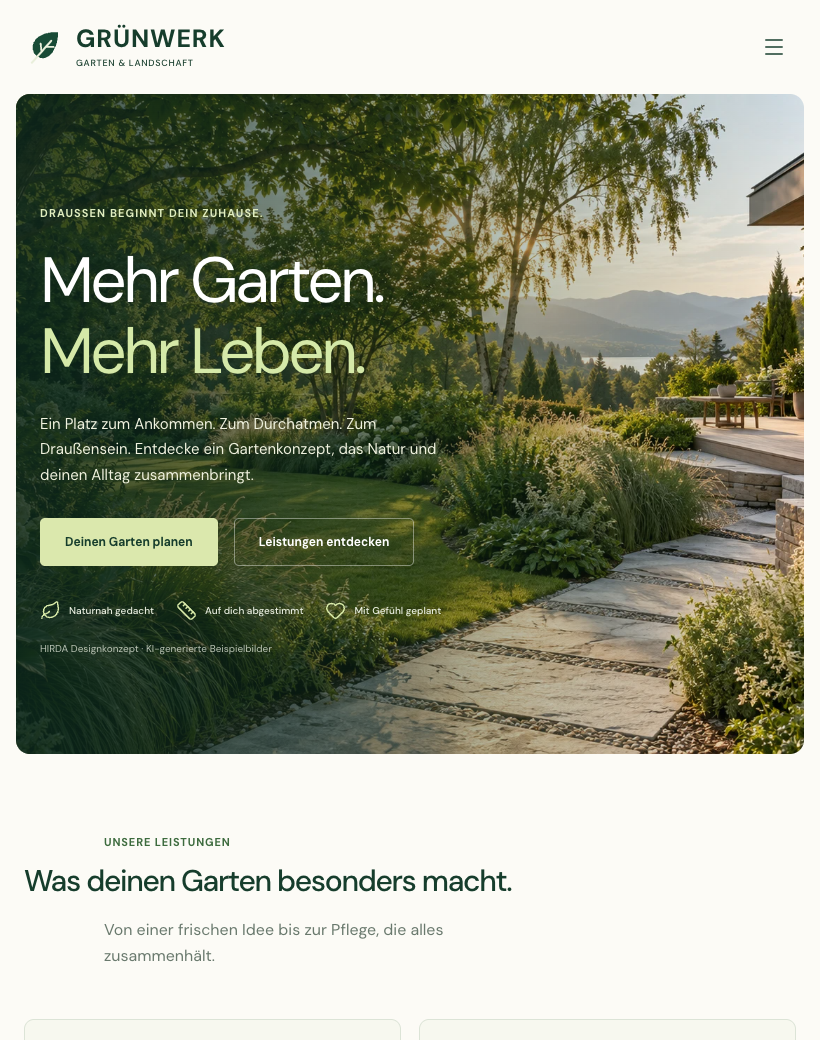
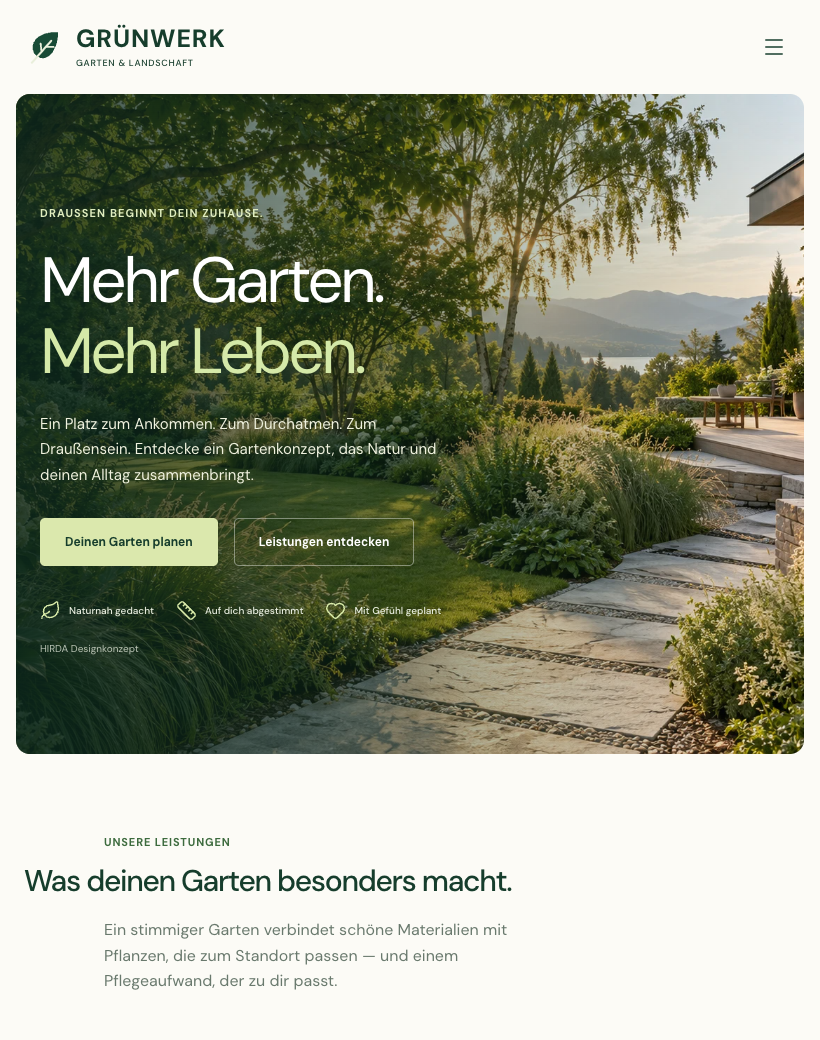
Expand Gruenwerk garden planning and service guidance

Changed region(s): [[0.122, 0.8923, 0.5793, 0.9538], [0.1829, 0.6154, 0.2439, 0.6462], [0.2744, 0.6154, 0.3049, 0.6462]]

diff --git a/apps/gardens/src/data/site.ts b/apps/gardens/src/data/site.ts
@@ -10,33 +10,33 @@ export const site = {
   ],
   "description": "Ein Platz zum Ankommen. Zum Durchatmen. Zum Draußensein. Entdecke ein Gartenkonzept, das Natur und deinen Alltag zusammenbringt.",
   "hero": "garden.webp",
-  "heroAlt": "KI-Visualisierung eines naturnahen Gartens mit Natursteinweg und Holzterrasse",
+  "heroAlt": "naturnahen Gartens mit Natursteinweg und Holzterrasse",
   "servicesTitle": "Was deinen Garten besonders macht.",
-  "servicesIntro": "Von einer frischen Idee bis zur Pflege, die alles zusammenhält.",
+  "servicesIntro": "Ein stimmiger Garten verbindet schöne Materialien mit Pflanzen, die zum Standort passen — und einem Pflegeaufwand, der zu dir passt.",
   "services": [
     {
       "icon": "sprout",
       "title": "Gartenplanung",
-      "text": "Aus deinen Wünschen wird ein stimmiges Konzept."
+      "text": "Ein Sitzplatz in der Abendsonne, Raum zum Spielen oder weniger Pflege: Nutzung, Boden und Licht geben der Planung ihre Richtung."
     },
     {
       "icon": "flower-2",
       "title": "Pflanzen & Beete",
-      "text": "Lebendige Strukturen für jede Jahreszeit."
+      "text": "Farben, Höhen und Blütezeiten schaffen ein lebendiges Gesamtbild. Die Pflanzenauswahl wird an Standort und Pflegeaufwand angepasst."
     },
     {
       "icon": "layers",
       "title": "Wege & Terrassen",
-      "text": "Lieblingsplätze aus Holz und Naturstein."
+      "text": "Wege verbinden, Terrassen laden zum Bleiben ein. Material, Gefälle, Entwässerung und Anschlüsse an das Haus werden zusammen betrachtet."
     },
     {
       "icon": "trees",
       "title": "Gartenpflege",
-      "text": "Damit dein Garten Zeit zum Wachsen hat."
+      "text": "Rückschnitt, Beetpflege oder ein saisonaler Start: Umfang und Zeitpunkt richten sich nach Pflanzenbestand und den Bedürfnissen deines Gartens."
     }
   ],
   "aboutTitle": "Nicht irgendein Garten. Sondern deiner.",
-  "aboutText": "Morgens mit dem Kaffee nach draußen. Abends noch ein bisschen bleiben. Ein schöner Garten sieht nicht nur gut aus — er passt dazu, wie du leben möchtest.",
+  "aboutText": "Morgens mit dem Kaffee nach draußen. Abends noch ein bisschen bleiben. Ein Garten soll nicht nur auf einem Foto funktionieren, sondern über die Jahreszeiten hinweg. Deshalb beginnt Grünwerk mit deinem Alltag: Wo möchtest du sitzen, was soll wachsen und wie viel Zeit möchtest du in die Pflege investieren?",
   "aboutPoints": [
     "Standort und Jahreszeiten berücksichtigen",
     "Pflanzen und Materialien bewusst auswählen",
@@ -64,25 +64,29 @@ export const site = {
     {
       "icon": "coffee",
       "title": "Kennenlernen",
-      "text": "Wie möchtest du deinen Garten nutzen?"
+      "text": "Wünsche, Nutzung und vorhandene Lieblingsplätze besprechen. Auch ein einzelnes Beet kann ein guter Anfang sein."
     },
     {
       "icon": "ruler",
       "title": "Ideen entwickeln",
-      "text": "Pflanzen, Materialien und Flächen zusammendenken."
+      "text": "Sonne, Boden, Wege und Pflanzenbestand betrachten. Daraus entsteht eine nachvollziehbare Richtung für Gestaltung und Materialien."
     },
     {
       "icon": "shovel",
       "title": "Umsetzung planen",
-      "text": "Umfang, Etappen und einen möglichen Ablauf klären."
+      "text": "Die Arbeiten in sinnvolle Etappen aufteilen. Zugänglichkeit, Jahreszeit und Pflegebedarf fließen in die Abstimmung ein."
     },
     {
       "icon": "leaf",
       "title": "Weiterwachsen",
-      "text": "Pflege und Entwicklung im Blick behalten."
+      "text": "Ein Garten verändert sich. Passende Pflege und die Entwicklung der Pflanzen gehören deshalb von Anfang an zur Planung."
     }
   ],
   "faq": [
+    [
+      "Wie entsteht ein Garten mit überschaubarem Pflegeaufwand?",
+      "Entscheidend sind standortgerechte Pflanzen, gut erreichbare Flächen und eine Gestaltung, die zu deiner verfügbaren Zeit passt. Pflegeleicht bedeutet nicht pflegefrei; der gewünschte Aufwand sollte bereits in der Planung besprochen werden."
+    ],
     [
       "Kann ich auch nur einen Teil des Gartens verändern?",
       "Ja, das Konzept berücksichtigt einzelne Beete, Wege oder eine Terrasse ebenso wie eine größere Neugestaltung. Ein echter Umfang würde persönlich abgestimmt."
